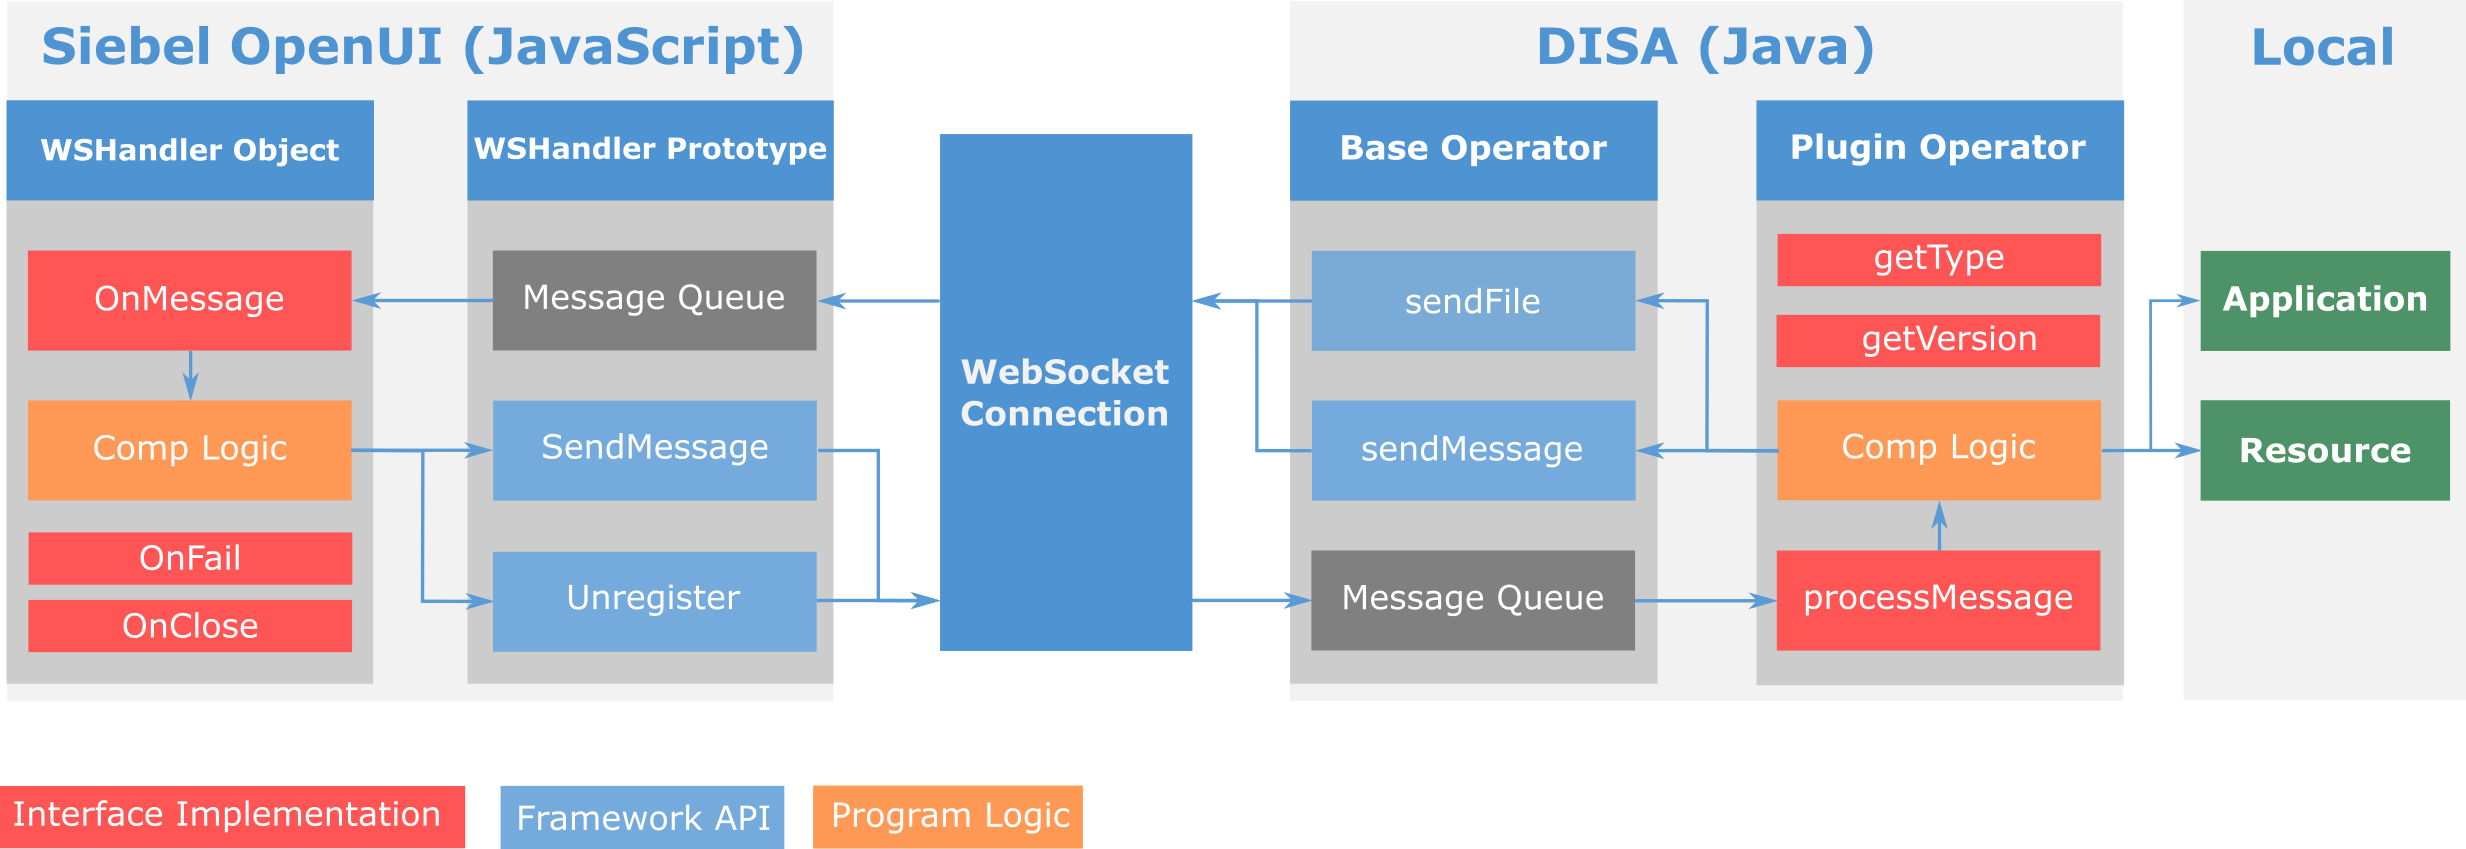
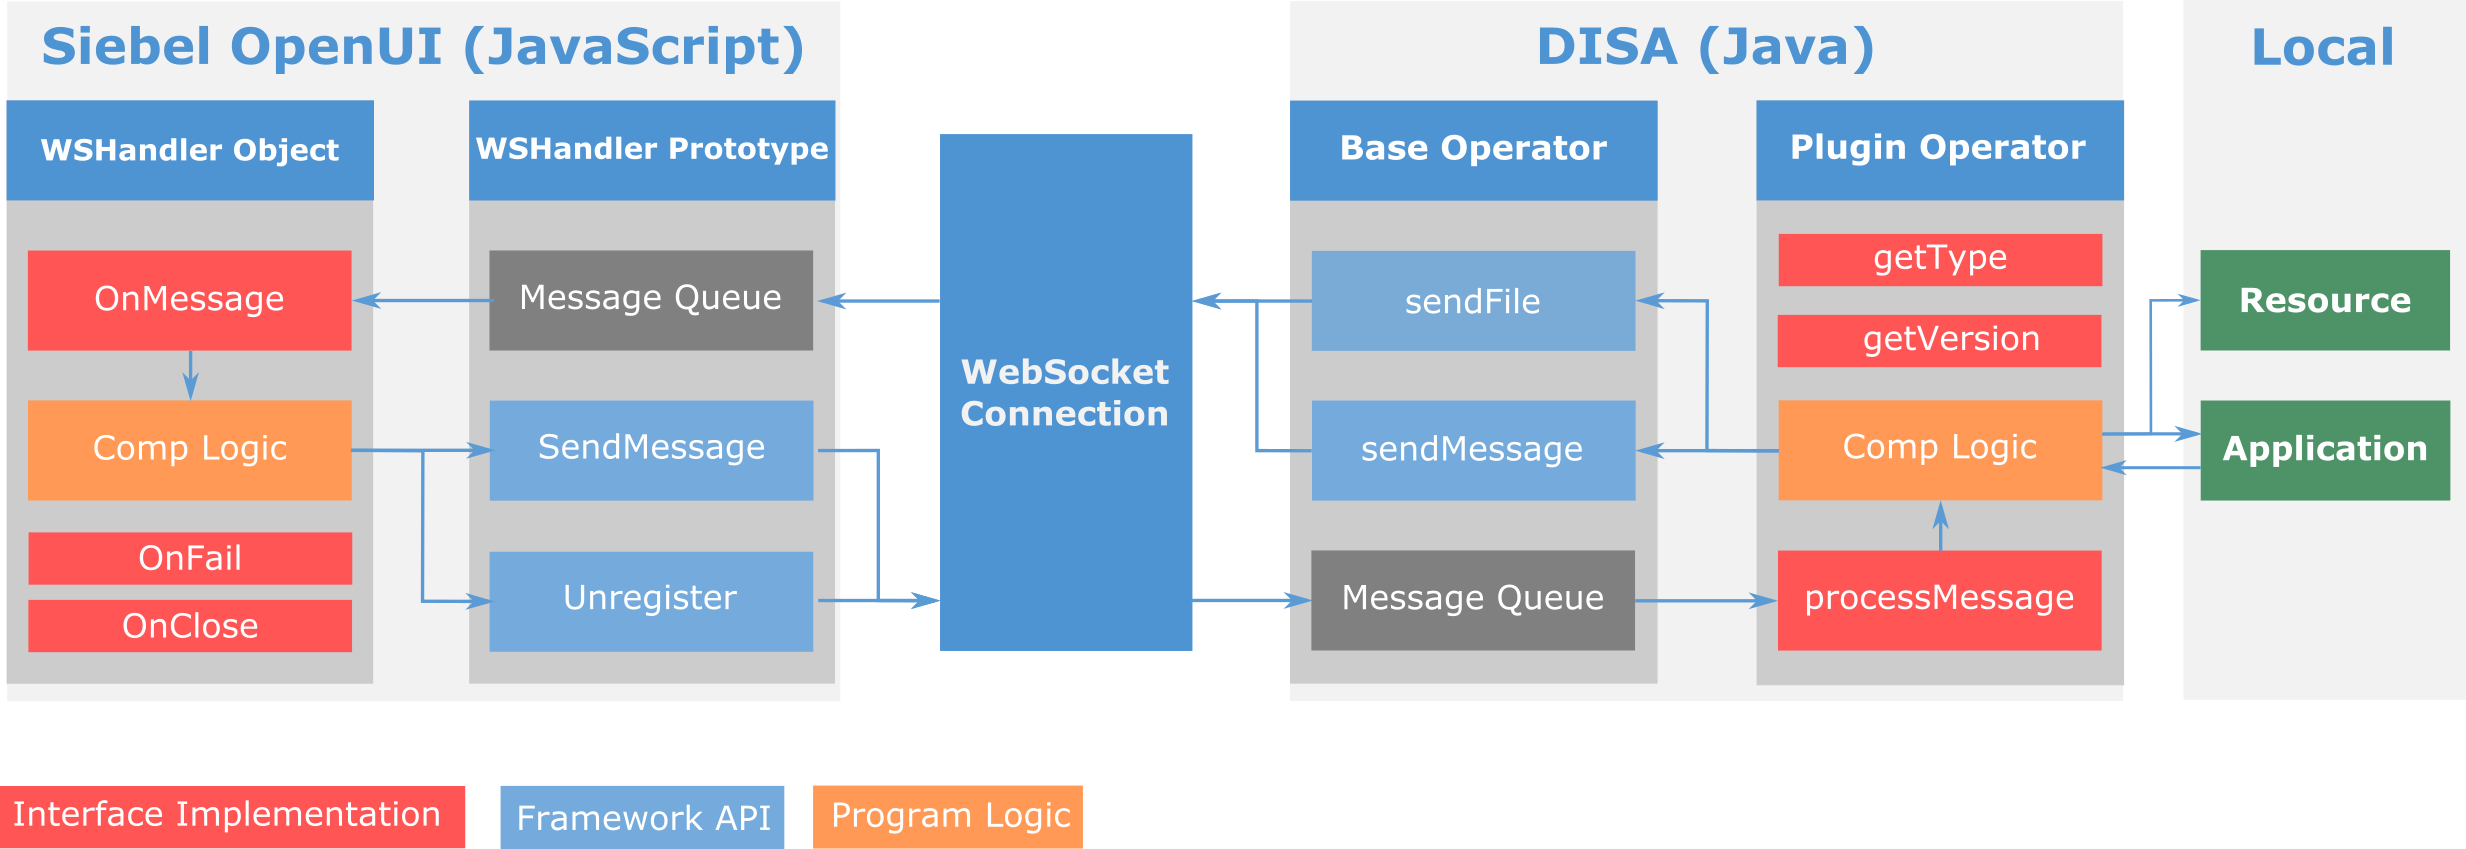
update document for new interface and IPC

diff --git a/ExampleCode/DISA/README.md b/ExampleCode/DISA/README.md
@@ -48,7 +48,7 @@ The following WSHandler and related codes could be added anywhere needed; howeve
 2.  Define the **WSHandler** (and its getter if necessary)
     *   Call **SiebelApp.WebSocketManager.CreateWSHandler** with Component Type defined in Step 1 as the argument.
     *   Set callbacks if necessary, including OnMessage, OnFail, and OnClose.  
-        **OnMessage(msg, fileName)**: called when getting message from Operator at DISA  
+        **OnMessage(msg, fileName, fileMsg)**: called when getting message from Operator at DISA. *fileMs*g argument only available when the incomming file includes a message.  
         **OnFail()**: called when failed to send message to DISA  
         **OnClose()**: called when connection to DISA is lost
     *   Example - WSHandler Definition
@@ -68,11 +68,11 @@ The following WSHandler and related codes could be added anywhere needed; howeve
             return sampleHandler;
         }
 
-        function onWSMessage(msg, fileName) {
+        function onWSMessage(msg, fileName, fileMsg) {
             if (msg instanceof Blob) {
                 // Message is binary data
                 // fileName is the ID of the binary data
-                handleFile(msg, fileName);
+                handleFile(msg, fileName, fileMsg);
             } else {
                 // Message is in JSON format
                 // fileName is undefined
@@ -107,8 +107,9 @@ The following WSHandler and related codes could be added anywhere needed; howeve
         }
 
         // Called by onWSMessage event handler
-        function handleFile(msg, fileName) {
+        function handleFile(msg, fileName, fileMsg) {
             console.log("File " + fileName + " received from DISA.");
+            console.log("File attached message: " + JSON.stringify(fileMsg));
         }
 
         // Called by onWSClose or onWSSendFail event handler
@@ -118,7 +119,8 @@ The following WSHandler and related codes could be added anywhere needed; howeve
         }
         ```
 
-4.  Call **SendMessage(msg, fileName)** method of WSHandler to send message to the corresponding operator at DISA 
+4.  Call **SendMessage(msg, fileName, fileMsg)** method of WSHandler to send message to the corresponding operator at DISA 
+    *   *fileName* and *fileMsg* arguments are for binary message types, *fileMsg* requires a JSON object and it is optional
     *   Example - SendMessage of WSHandler
 
         ```js
@@ -132,10 +134,15 @@ The following WSHandler and related codes could be added anywhere needed; howeve
         handler.SendMessage(msgJSON);
 
         // Another format supported is binary data (Blob is recommended, ArrayBuffer is also supported)
-        // With binary data as the first arg, the second arg is required
+        // With binary data as the first arg, the fileName arg is required, fileMsg arg is optional, it must be a JSON object
+        // fileMsg will be attached to the binary message.
         var fileContent = new Blob([JSON.stringify(msgJSON, null, 2)], {type : 'application/json'});
         var fileName = "test.json";
-        handler.SendMessage(fileContent, fileName);
+        var fileMsg = {
+            date: "201608041747",
+            id: "test_file"
+        };
+        handler.SendMessage(fileContent, fileName, fileMsg);
         ```
 
 5.  Call **Unregister()** method of WSHanlder to release the handler itself once no longer used, and it'll also send command to DISA to unregister the corresponding operator.  
@@ -181,11 +188,11 @@ The following WSHandler and related codes could be added anywhere needed; howeve
          * The plugin class depends on disa-api.jar and gson.jar in the lib folder 
          */
         public class SampleOperator extends com.siebel.wsserver.operator.CSSWSSingletonOperator {
-            // Logger.getLogger("disa.server") returns DISA system log instance
-            // Logs by logger will go into DISA log file.
-            java.util.logging.Logger logger = java.util.logging.Logger.getLogger("disa.server");
-
-            public static final String FILE_NAME = "FileName";
+            // Operator public constants:
+            // public static final Logger disaLog: DISA log object, logs by disaLog will go into DISA log file.
+            // public static final String FILE_INFO: The key for file message.
+            // public static final String FILE_NAME: In file message, this is the key for file name.
+            // public static final String MESSAGE: in file message, this is the key for file message JSON.
 
             @Override
             public String getType() {
@@ -207,20 +214,27 @@ The following WSHandler and related codes could be added anywhere needed; howeve
             @Override
             protected void processMessage(com.google.gson.JsonObject msg) {
                 // Sample code calling sendFile and sendMessage
-                if (msg.has(FILE_NAME)) {
+                if (msg.has(FILE_INFO)) {
+                    JsonObject fileInfo = msg.getAsJsonObject(FILE_INFO);
                     // if the current message is a file, the message should
-                    // include a key named "FileName" and the value is the local
+                    // include a key named "FILE_INFO" and the value is the local
                     // path to this file.
-                    String fileName = msg.get(FILE_NAME).getAsString();
-                    // Call sendFile(fileName) to send file to Siebel OpenUI
-                    sendFile(fileName);
+                    String fileName = fileInfo.get(FILE_NAME).getAsString();
+                    disaLog.info("Received file: " + fileName);
+                    if (fileInfo.has(MESSAGE)) {
+                        JsonObject fileMsg = fileInfo.get(MESSAGE).getAsJsonObject();
+                        disaLog.info("File message: " + fileMsg.toString());
+                    }
+                    // Call sendFile(fileName) or sendFile(fileName, fileMsg) to send file to Siebel OpenUI
+                    //sendFile(fileName);
+                    sendFile(fileName, fileMsg);
                 } else {
                     // The basic text message format is JSON
                     com.google.gson.JsonObject responseMsg = new com.google.gson.JsonObject();
                     responseMsg.addProperty("Echo", msg.toString());
                     // Call sendMessage(msg) to send JSON message to Siebel OpenUI
                     sendMessage(responseMsg);
-                    logger.info("Echo Message back: " + responseMsg.toString());
+                    disaLog.info("Echo Message back: " + responseMsg.toString());
                 }
             }
         }
@@ -238,6 +252,12 @@ The following WSHandler and related codes could be added anywhere needed; howeve
         ```
 
 4.  Compile the class and pack the META-INF folder in a jar file.
+
+**Communicate With DISA Plugin**
+
+Another application may need to communicate with DISA plugin to exchange data or communicate with Open UI through a custom DISA plugin, such requirment can be achieved by implementing inter-process communication ([IPC](https://en.wikipedia.org/wiki/Inter-process_communication)).
+
+![Framework Overview](./ipc.png "Framework Overview")
 
 ## **3\. Deployment**
 
